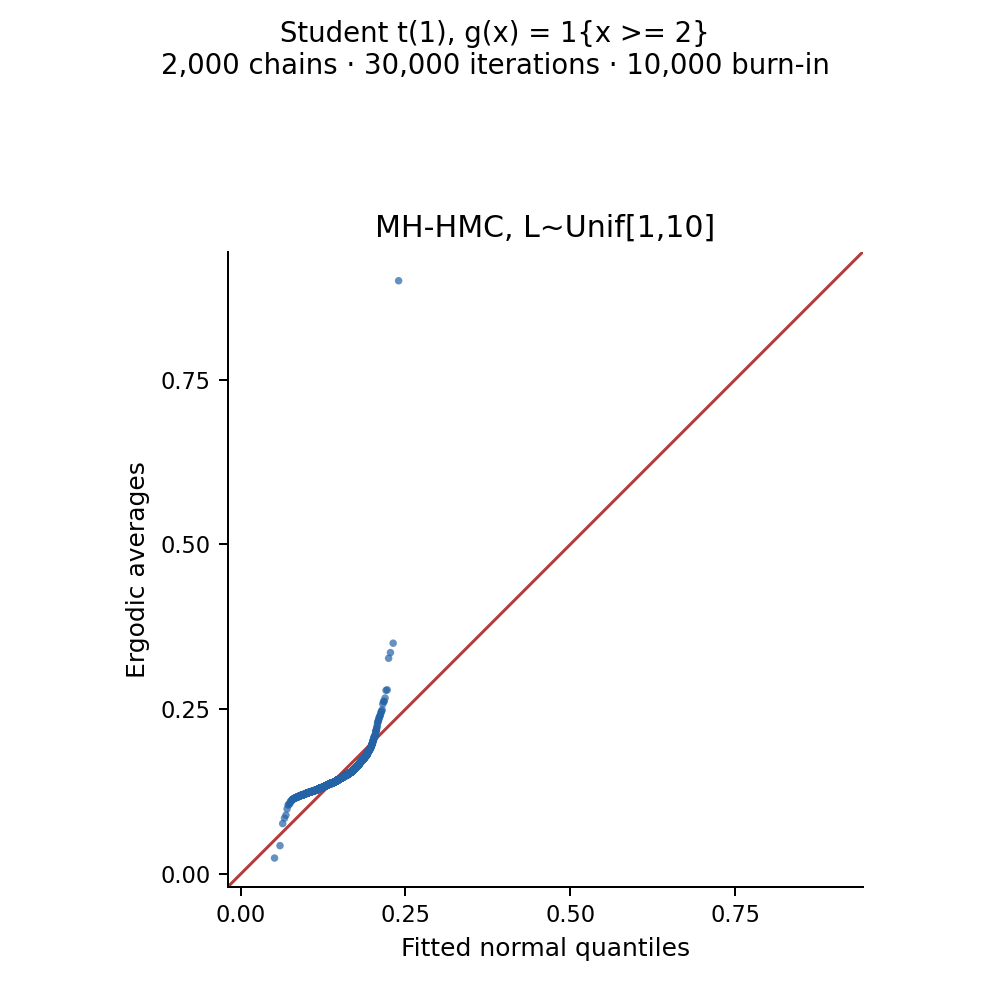
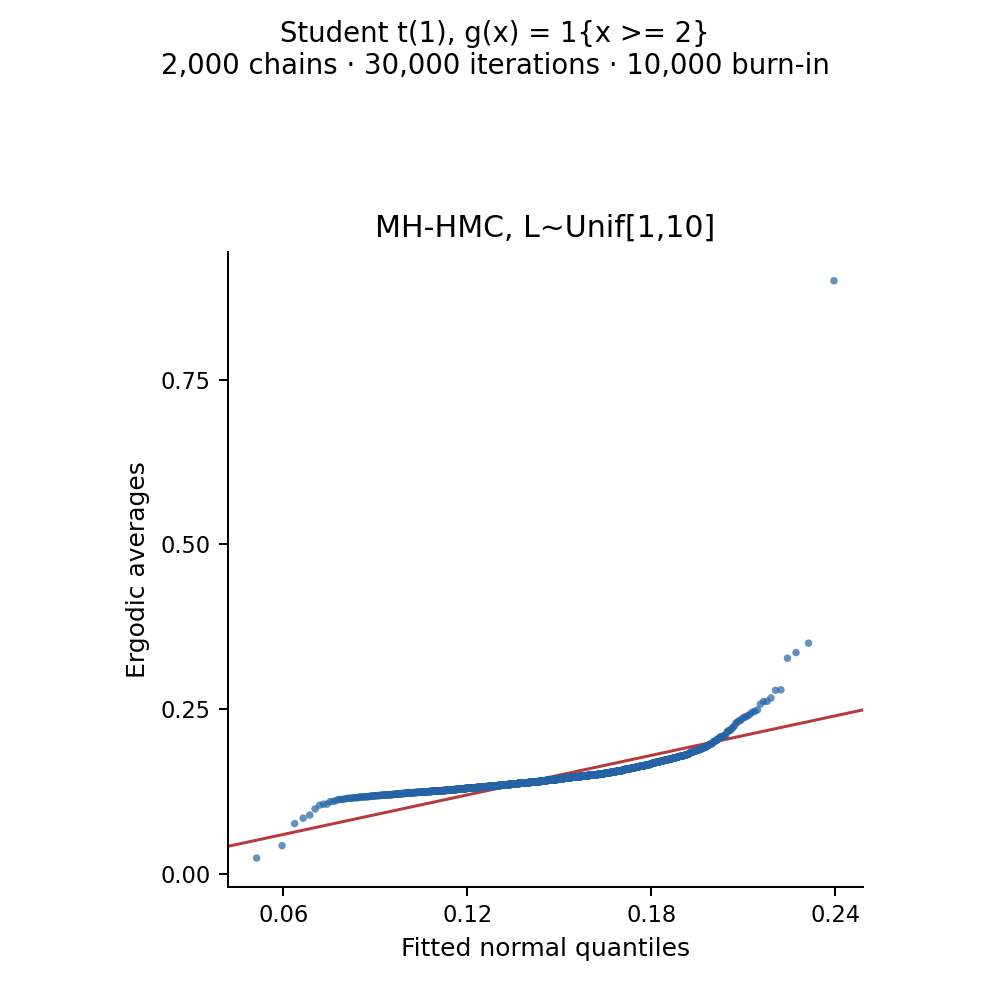
Scale QQ axes independently to prevent horizontal compression

diff --git a/clt_qq/plots.py b/clt_qq/plots.py
@@ -28,17 +28,22 @@ def _draw_qq(ax, values, title):
     from matplotlib.ticker import MaxNLocator
 
     theoretical, empirical = normal_qq_coordinates(values)
-    low = min(theoretical[0], empirical[0])
-    high = max(theoretical[-1], empirical[-1])
-    width = high - low
-    padding = 0.05 * width if width > 0 else 0.05 * max(abs(low), 1.0)
-    limits = (low - padding, high + padding)
-    ax.plot(limits, limits, color="#b83b3b", linewidth=1.2, zorder=1)
+    def padded_limits(values):
+        low, high = values[0], values[-1]
+        width = high - low
+        padding = 0.05 * width if width > 0 else 0.05 * max(abs(low), 1.0)
+        return low - padding, high + padding
+
+    # Each axis follows its own quantiles. A large observed average should
+    # expand the vertical axis without adding empty horizontal space.
+    x_limits = padded_limits(theoretical)
+    y_limits = padded_limits(empirical)
+    ax.plot(x_limits, x_limits, color="#b83b3b", linewidth=1.2, zorder=1)
     ax.scatter(theoretical, empirical, s=9, color="#2463a6", alpha=0.7,
                edgecolors="none", zorder=2)
-    ax.set(xlim=limits, ylim=limits, title=title,
+    ax.set(xlim=x_limits, ylim=y_limits, title=title,
            xlabel="Fitted normal quantiles", ylabel="Ergodic averages")
-    ax.set_aspect("equal", adjustable="box")
+    ax.set_box_aspect(1)
     ax.xaxis.set_major_locator(MaxNLocator(nbins=4))
     ax.yaxis.set_major_locator(MaxNLocator(nbins=4))
     ax.tick_params(labelsize=9)

diff --git a/clt_qq/README.md b/clt_qq/README.md
@@ -49,6 +49,9 @@ x_i = mean(A) + std(A, ddof=1) * NormalQuantile((i + 0.5) / N)
 ```
 
 Both axes are in the observable's original units; the reference is `y=x`.
+The axes use independent ranges so extreme observed averages do not compress
+the normal quantiles horizontally. Consequently, `y=x` need not look like a
+45-degree line on the page.
 There is one cloud of points per panel, no sample-size overlays, and no target
 centering. All points are kept, including extremes. Each sampler also gets a
 standalone PNG and PDF.
